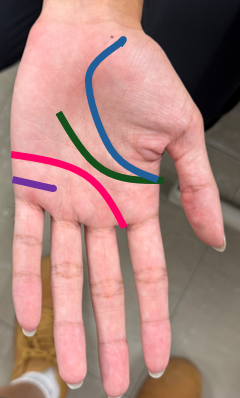
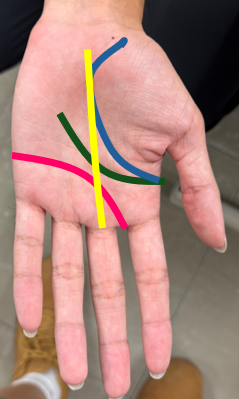
運命線を追加

diff --git a/data/questions/marriage.js b/data/questions/marriage.js
@@ -6,68 +6,68 @@ window.PALM_QUESTIONS.marriage = [
     question: "結婚線はどれでしょう",
     image: "image/image02.jpg",
     choices: [
-      "紫色",
+      "黄色",
       "ピンク色",
       "緑色",
       "青色"
     ],
     answer: 0,
-    explanation: "結婚線は感情線と小指の間、手の側面から中心に向かって伸びる線です。"
+    explanation: "運命線は出発点はどこであっても中指の付け根当たりに向かって伸びる線です。"
   },
   {
     question: "この線が表わすのは？",
     image: "image/image30.jpg",
-    choices: ["玉の輿に乗った上に相思相愛。結婚でなにもかも幸せに慣れるタイプ。"],
+    choices: ["下積み期間がすごく長く、55歳頃に開花しする。コツコツ重ねた努力と誠意が認められる。"],
     answer: 0,
-    explanation: "どんな線か:薬指の下に刻まれている線に届いている"
+    explanation: "どんな線か:始まりが感情線あたり"
   },
   {
     question: "この線が表わすのは？",
     image: "image/image31.jpg",
-    choices: ["玉の輿に乗ったり夫婦で協力して財を築ける。夫婦仲も良好。"],
+    choices: ["下積み期間が長く、35歳頃から活躍の場が広がる。経験から得た知恵が武器になる。"],
     answer: 0,
-    explanation: "どんな線か:薬指の下の膨らみまで伸びている"
+    explanation: "どんな線か:始まりが頭脳線あたり"
   },
   {
     question: "この線が表わすのは？",
     image: "image/image32.jpg",
-    choices: ["相手を嫌いになったり衝突したりするわけではないが、結婚生活はドライになりやすい。"],
+    choices: ["リーダーが向いていて、仕事運が強い。"],
     answer: 0,
-    explanation: "どんな線か:末端にいくほど細くなっていく"
+    explanation: "どんな線か:くっきり線がある"
   },
   {
     question: "この線が表わすのは？",
     image: "image/image33.jpg",
-    choices: ["愛情が冷めやすく夫婦喧嘩が多くなる。別居や離婚を選ぶ可能性が高い。"],
+    choices: ["明るく賢い。人気者になり、恵まれた環境で働くことが多い。"],
     answer: 0,
-    explanation: "どんな線か:末端が下向きにカーブし感情線を越える"
+    explanation: "どんな線か:手のひらの真ん中をまっすぐ伸びる"
   },
   {
     question: "この線が表わすのは？",
     image: "image/image34.jpg",
-    choices: ["夫婦間の愛情が冷めやすく、家庭内別居状態になる場合が。"],
+    choices: ["人生の一時期仕事が落ち込む。その期間は休養に充てるとよい。"],
     answer: 0,
-    explanation: "どんな線か:末端が下向きにカーブし感情線に届く"
+    explanation: "どんな線か:線の途中に大きめの空白がある"
   },
   {
     question: "この線が表わすのは？",
     image: "image/image35.jpg",
-    choices: ["愛情は続き分かれないが、相手以外にも子供やペットなどに注ぐ愛情が多くなる。"],
+    choices: ["揉まれながら成長発展できる。チャンスも多い。浮き沈みが激しいので仕事が続かない場合も。"],
     answer: 0,
-    explanation: "どんな線か:末端が三本以上に分かれる"
+    explanation: "どんな線か:途中で何度か切れている"
   },
   {
     question: "この線が表わすのは？",
     image: "image/image36.jpg",
-    choices: ["夫婦が別々の方向を向いてしまう。愛情が冷めきってしまい別居や離婚を選びやすくなる。"],
+    choices: ["非常に強い仕事運を持つ。分野が違う三つ以上の仕事を並行してこなせる。"],
     answer: 0,
-    explanation: "どんな線か:末端が二股に分かれている"
+    explanation: "どんな線か:並行している運命線が三本以上ある"
   },
   {
     question: "この線が表わすのは？",
     image: "image/image37.jpg",
-    choices: ["初恋の相手や初めての恋人と結婚する可能性が高い。相思相愛で障害幸せな夫婦関係を築いていける。"],
+    choices: ["強い仕事運の持ち主で二足の草鞋を履くことができる。どちらも中途半端にならないよう注意。"],
     answer: 0,
-    explanation: "どんな線か:一本だけ"
+    explanation: "どんな線か:並行している運命線が二本ある"
   }
 ];

diff --git a/script.js b/script.js
@@ -5,7 +5,7 @@ const MODES = [
   { id: "life", name: "生命線", description: "生命線の意味や見方" },
   { id: "head", name: "頭脳線", description: "頭脳線の意味や見方" },
   { id: "heart", name: "感情線", description: "感情線の意味や見方" },
-  { id: "marriage", name: "結婚線", description: "結婚線の意味や見方" },
+  { id: "marriage", name: "運命線", description: "運命線の意味や見方" },
   { id: "conversation", name: "会話", description: "占い中の受け答え" },
   { id: "other", name: "その他の線", description: "運命線などの知識" },
   { id: "palmistry", name: "手相とは", description: "手相の基礎や考え方" },

diff --git a/data/questions/heart.js b/data/questions/heart.js
@@ -7,7 +7,7 @@ window.PALM_QUESTIONS.heart = [
     image: "image/image02.jpg",
     choices: [
       "ピンク色",
-      "紫色",
+      "黄色",
       "青色",
       "緑色"
     ],

diff --git a/data/questions/head.js b/data/questions/head.js
@@ -8,7 +8,7 @@ window.PALM_QUESTIONS.head = [
     choices: [
       "緑色",
       "青色",
-      "紫色",
+      "黄色",
       "ピンク色"
     ],
     answer: 0,

diff --git a/data/questions/life.js b/data/questions/life.js
@@ -8,7 +8,7 @@ window.PALM_QUESTIONS.life = [
     choices: [
       "青色",
       "緑色",
-      "紫色",
+      "黄色",
       "ピンク色"
     ],
     answer: 0,
